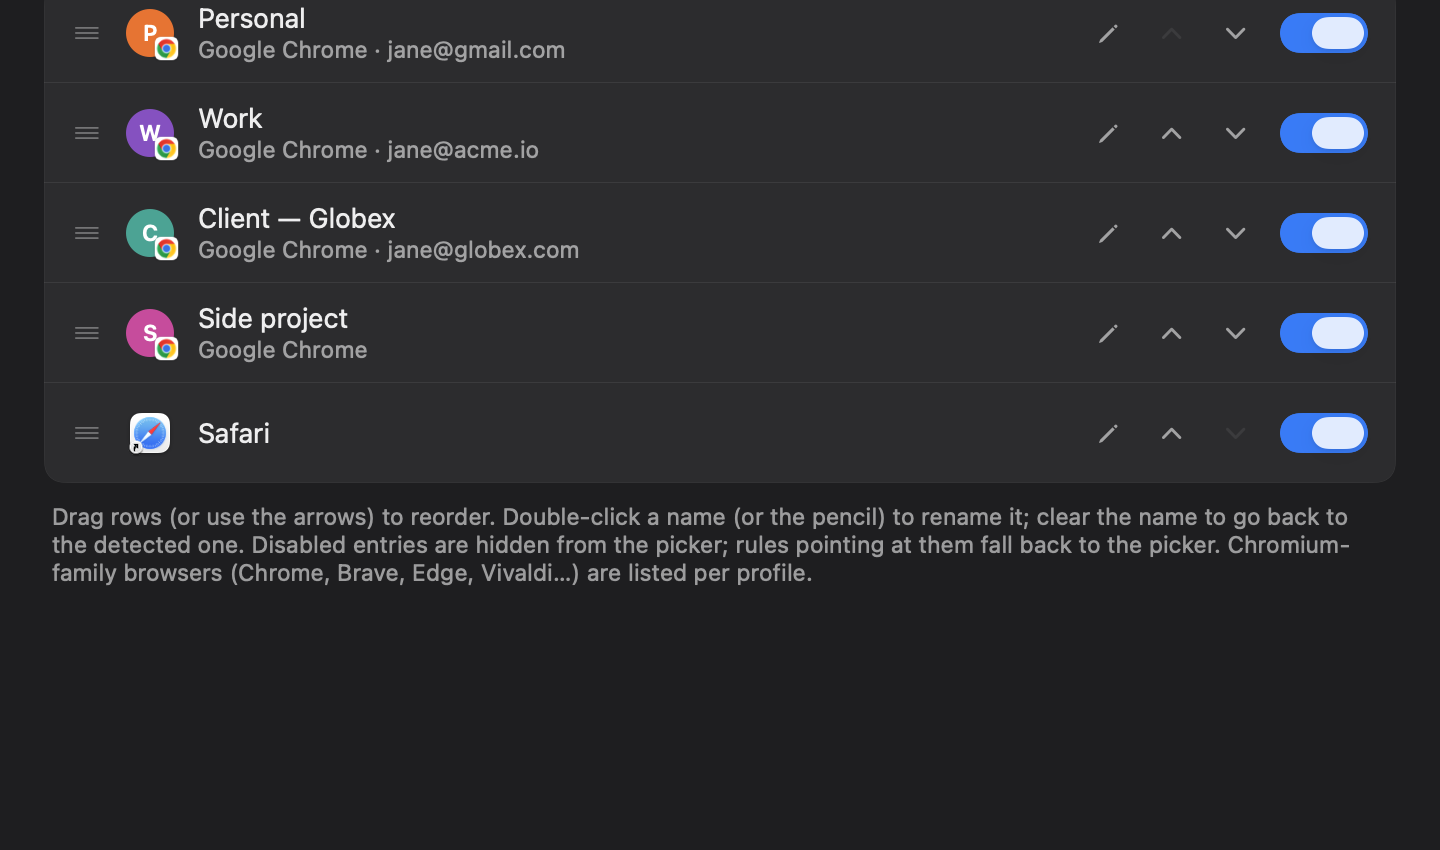
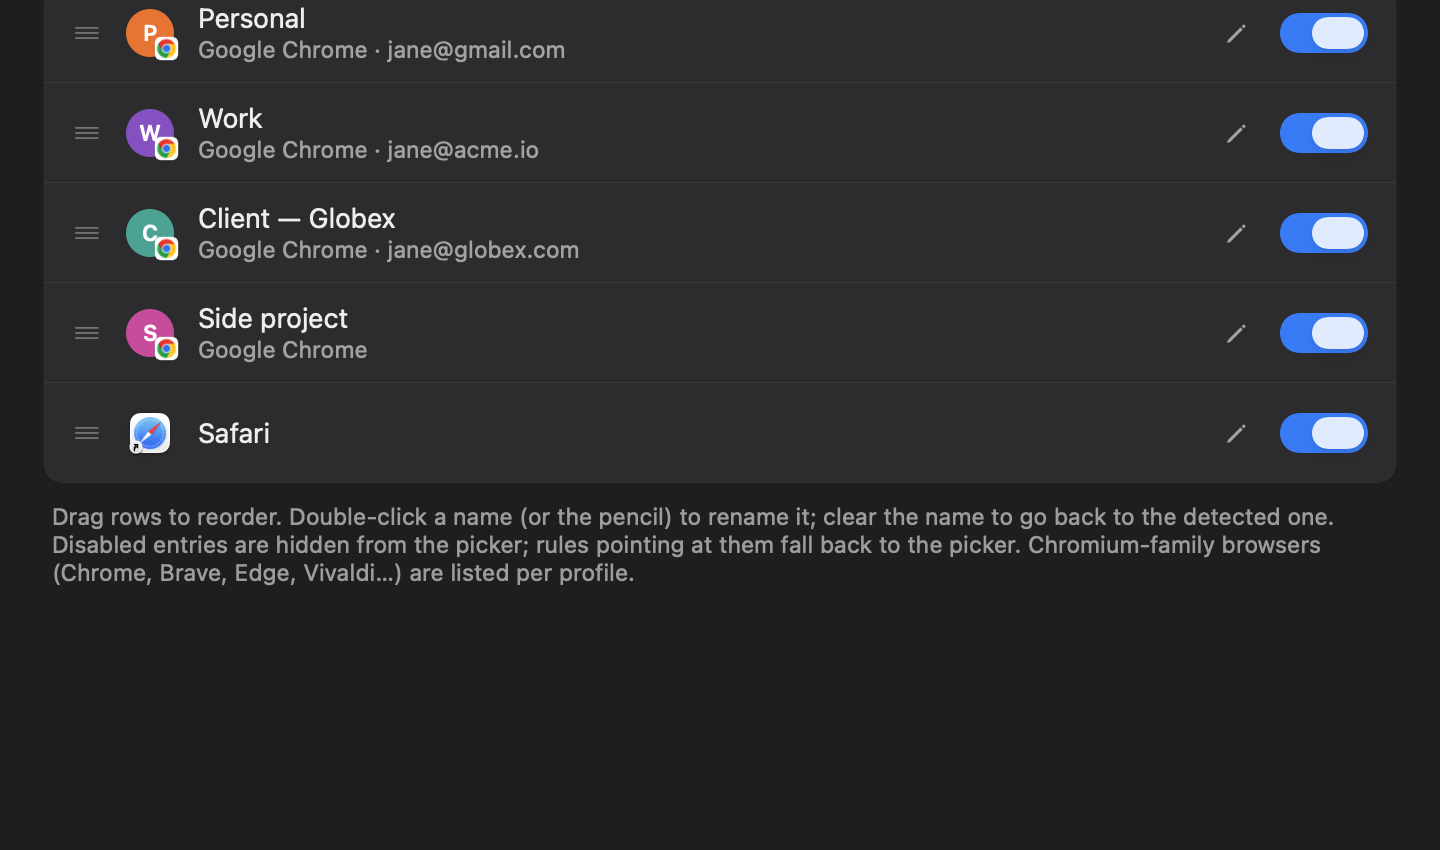
Update docs and screenshot for drag-only browser reordering

Changed region(s): [[0.0312, 0.5812, 0.9375, 0.7035], [0.8438, 0.0306, 0.875, 0.0612]]

diff --git a/README.md b/README.md
@@ -94,7 +94,7 @@ Hold **`⌥` while clicking a link** anywhere to skip the rules and get the pick
 - Each Chromium browser also gets an **Incognito** entry (opens the link in a private window).
 - **Detect browsers** re-scans (new Chrome profiles are also picked up automatically after each
   link).
-- **Drag** rows (or use the arrows) to reorder.
+- **Drag** rows to reorder.
 - **Toggle** to enable / disable — disabled entries are hidden from the picker.
 - **Rename** with the pencil or a double-click — e.g. call a profile "tado" instead of "Work".
   The original name stays searchable; clear the field to go back to it.
